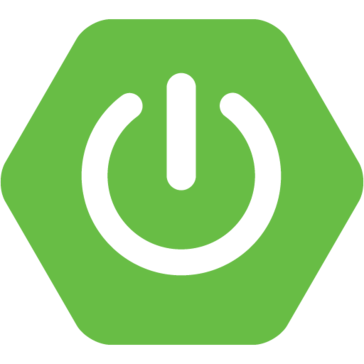
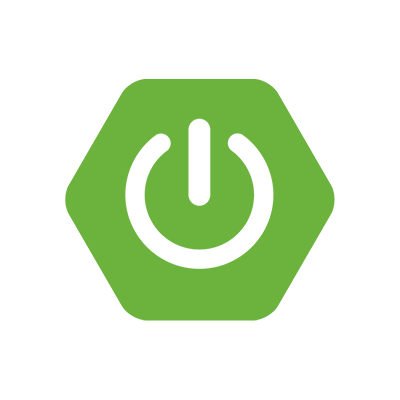
Ultimos cambios a ver si funciona

diff --git a/index.html b/index.html
@@ -137,7 +137,7 @@
 						<div class="box alt">
 							<div class="row gtr-uniform">
 								<section class="col-4 col-6-medium col-12-xsmall">
-									<img src="images/sebas_3.jpg" class="icon solid alt major fa-chart-area"></img>
+									<img src="images/spring-boot.png" class="icon solid alt major fa-chart-area"></img>
 									<h3>Spring Boot </h3>
 									<p>Tecnología Implementada de Java Maven, Un Framework Web para mejorar el desarrollo de Software.</p>
 								</section>
